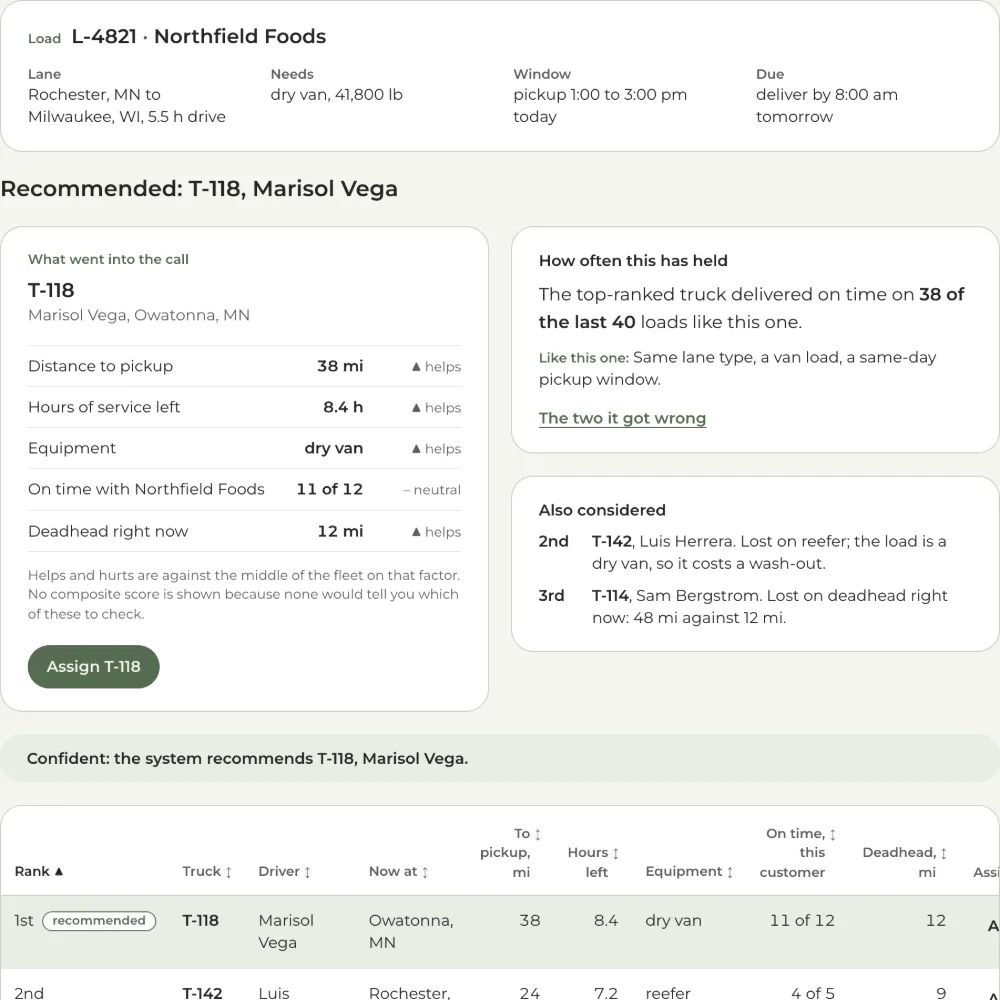
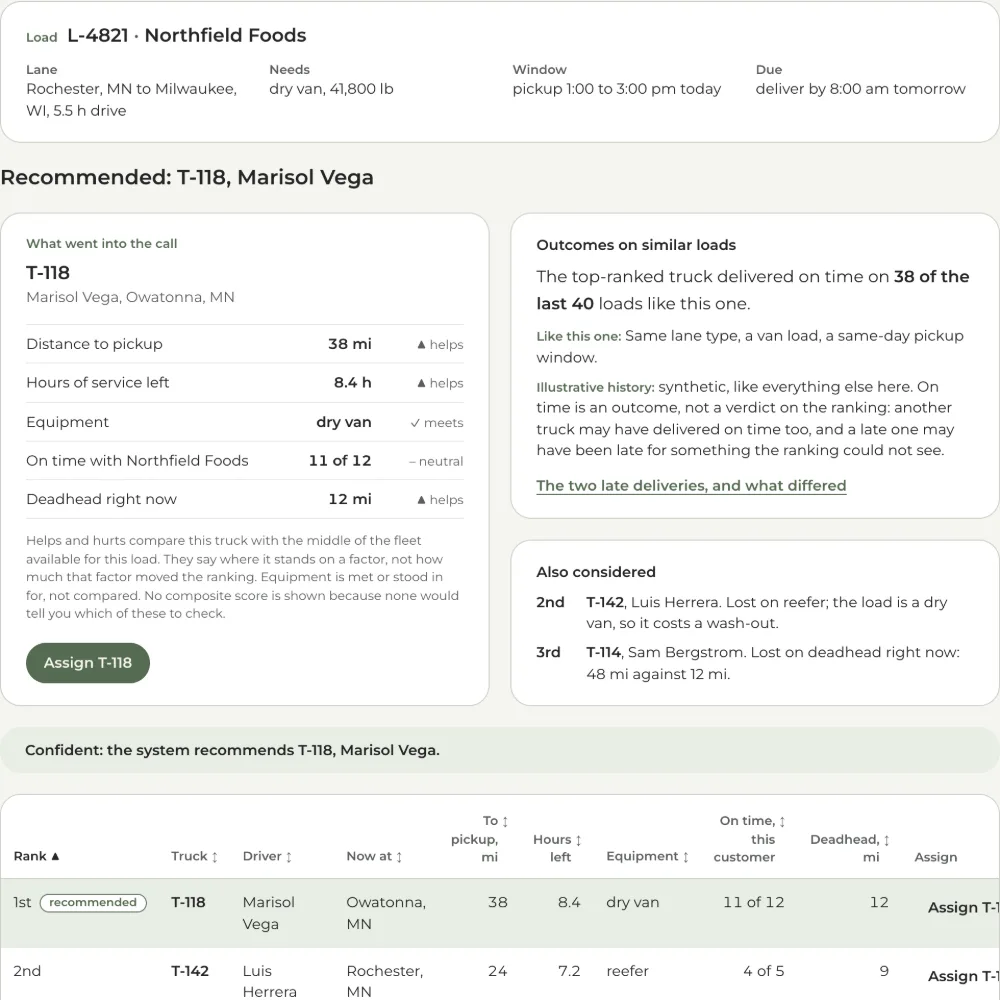
The dispatch cockpit and its card sit in the site's device chrome (#66)
The prototype was a bare column on the section ground while every capture
on the build write-ups sits in a bezel, which is two ideas of what a screen
is. It is now the same object: one --bezel of --device-chrome, the inner
radius derived from the outer, --shadow-device under it. The radius is the
laptop lid's 14 and not the phone's 26, because 26 on a box this wide reads
as a lozenge -- the argument style.css already makes at .build-laptop.

The frame is the one thing on the page that leaves the 1280px container. A
dispatch cockpit is a monitor-width interface and the argument it makes,
seven trucks and five factors all in reach, is the argument the width
carries; the screen runs to 1920 and scales down from there, with
--space-4xl of clear ground each side above 768 and the page gutter below
it, where 48 a side would squeeze the fleet data table harder than the
prose around it.

Two markup bugs went with it. The section opened a bare .container where
every other section on the page opens .container.case-narrow, and a stray
</div> closed that container early, so the cockpit escaped it entirely. At
1600px the section's h2 sat at x=192 against x=384 for every other heading
on the page. Both now measure 384.

The homepage's prototype thumbnail takes the same chrome, so the cockpit is
framed the same way in both places a reader meets it. It is also the one
thumbnail in the grid that is a SCREEN -- the four above it are
[…]

diff --git a/prototype/dispatch-cockpit.html b/prototype/dispatch-cockpit.html
@@ -18,7 +18,7 @@
   <meta property="og:url" content="https://adamhickey.com/prototype/dispatch-cockpit.html" />
   <meta property="og:title" content="A dispatch cockpit that shows its work | Adam Hickey" />
   <meta property="og:description" content="A self-directed prototype of an AI truck recommendation for freight dispatch, on synthetic data: the factors weighed and where each one stands, outcomes from similar loads instead of a confidence percentage, a one-click override that asks why afterwards, and the whole fleet always in reach." />
-  <meta property="og:image" content="https://adamhickey.com/img/og/dispatch-cockpit.jpg" />
+  <meta property="og:image" content="https://adamhickey.com/img/og/dispatch-cockpit.jpg?v=2" />
   <meta property="og:image:width" content="1200" />
   <meta property="og:image:height" content="630" />
   <meta name="twitter:card" content="summary_large_image" />
@@ -38,7 +38,7 @@
           "description": "A self-directed prototype of an AI truck recommendation for freight dispatch, on synthetic data: the factors weighed and where each one stands, outcomes from similar loads instead of a confidence percentage, a one-click override that asks why afterwards, and the whole fleet always in reach.",
           "url": "https://adamhickey.com/prototype/dispatch-cockpit.html",
           "mainEntityOfPage": "https://adamhickey.com/prototype/dispatch-cockpit.html",
-          "image": "https://adamhickey.com/img/og/dispatch-cockpit.jpg",
+          "image": "https://adamhickey.com/img/og/dispatch-cockpit.jpg?v=2",
           "datePublished": "2026-09-10",
           "dateModified": "2026-09-10",
           "author": {
@@ -104,9 +104,9 @@
   <link rel="stylesheet" href="../color.css?v=6" />
   <link rel="stylesheet" href="../shell.css?v=3" />
   <link rel="stylesheet" href="../type.css?v=3" />
-  <link rel="stylesheet" href="../style.css?v=20260910b" />
+  <link rel="stylesheet" href="../style.css?v=20260910c" />
   <link rel="stylesheet" href="../site-nav.css?v=20260908a" />
-  <link rel="stylesheet" href="dispatch-cockpit.css?v=2" />
+  <link rel="stylesheet" href="dispatch-cockpit.css?v=3" />
   <script src="../site-nav.js?v=20260906a" defer></script>
   <!-- The cockpit. Deferred, no dependencies, no build step; the synthetic
        fleet is the object at the top of the file. -->
@@ -254,14 +254,32 @@
     </header>
 
     <section class="case-section build-chapter ground-warm" id="the-cockpit">
-      <div class="container">
+      <div class="container case-narrow">
         <div class="writing-measure">
           <h2>The cockpit</h2>
           <p>One load, seven trucks, four situations. Pick a situation, then assign a truck: the recommended one, or any other that can legally take the load. Everything works from the keyboard. Arrow keys move between situations, Tab reaches every control, and what changes is announced.</p>
           <p>The four situations are scripted, to put a clear recommendation, a near-tie, an override in flight and a hard constraint each in front of you. Inside one, the ranking is worked out from the values on the screen. The fleet, the customer, the drivers and the outcome records are invented for the demo.</p>
         </div>
-        </div>
+      </div>
 
+      <!-- The prototype in the site's device chrome, the same object the
+           build write-ups frame their captures in: one --bezel of
+           --device-chrome, the inner radius DERIVED from the outer, and
+           --shadow-device under it. The radius is the laptop lid's 14 and
+           not the phone's 26, because this is a wide screen and 26 on a box
+           this wide reads as a lozenge; style.css authors 14 on
+           .build-laptop for that reason, and the two wide screens on the
+           site take the same corner.
+
+           It is the one thing on the page that leaves the 1280px container.
+           A dispatch cockpit is a monitor-width interface and the argument
+           it makes -- seven trucks and five factors all in reach -- is the
+           argument the width carries, so the frame runs to 1920 and then
+           scales down with the viewport. What it never does is touch the
+           edge: --space-4xl of clear ground on each side above 768, the
+           page gutter below it, where 48 a side would squeeze the fleet
+           data table harder than the prose around it. -->
+      <div class="ck-frame">
         <div class="ck" id="cockpit">
           <p class="ck-visually-hidden" id="ck-tabs-label">Four situations</p>
           <div class="ck-tabs" role="tablist" aria-labelledby="ck-tabs-label"></div>

diff --git a/style.css b/style.css
@@ -426,6 +426,12 @@ p  { font-size: var(--text-base); line-height: var(--leading-body); color: var(-
 }
 @media (prefers-reduced-motion: reduce) {
   .case-thumb, .case-thumb img { transform: none !important; box-shadow: none !important; }
+  /* ...except the device frame's ground shadow, which is chrome and not
+     motion: the blanket above exists to take the tilt's lift off, and it
+     was written when no thumb had a shadow at rest. Restored with the same
+     !important because that is the only thing that beats the line above
+     it. */
+  .case-card--prototype .case-thumb { box-shadow: var(--shadow-device) !important; }
 }
 
 
@@ -526,6 +532,36 @@ p  { font-size: var(--text-base); line-height: var(--leading-body); color: var(-
 }
 .case-card--prototype .case-thumb img { object-position: top; }
 .case-card--prototype .case-desc { margin-top: var(--space-xs); }
+
+/* The one thumbnail on the page that is a SCREEN, so it gets the site's
+   device chrome rather than the bare rounded tile the four case studies
+   take. The four above are photographs, logos and artwork -- a bezel around
+   a photograph is a frame around a frame -- and this is a capture of an
+   interface, which is exactly what --bezel and --device-chrome exist for.
+   It also does the card a favor: the thumb is a pale interface on the pale
+   tea-light panel #65 set this card on, and until the chrome went round it
+   the tile had no edge to speak of against it.
+
+   Same object as .build-phone and .build-laptop and same as .ck-frame on
+   the prototype page itself, so the cockpit is framed the same way in both
+   places a reader meets it: one --bezel of --device-chrome, the inner
+   radius DERIVED from the outer, --shadow-device underneath. The radius is
+   the laptop's 14 rather than the card's --radius-xl for the reason
+   style.css gives at .build-laptop -- this is a wide screen, and a phone's
+   26 on one reads as a lozenge.
+
+   Nothing about the card's box changes. --bezel is padding on a border-box
+   element under an aspect-ratio, so the tile is the same height in the grid
+   and the tilt still tracks the same rectangle; the 8px comes off the
+   picture, not off the layout. */
+.case-card--prototype .case-thumb {
+  --shell-radius: 14px;
+  padding: var(--bezel);
+  border-radius: var(--shell-radius);
+  background: var(--device-chrome);
+  box-shadow: var(--shadow-device);
+}
+.case-card--prototype .case-thumb img { border-radius: calc(var(--shell-radius) - var(--bezel)); }
 @media (min-width: 768px) {
   .case-card--prototype {
     display: grid;

diff --git a/prototype/dispatch-cockpit.css b/prototype/dispatch-cockpit.css
@@ -122,8 +122,53 @@
   color: var(--color-accent-text);
 }
 
-/* ---------- The cockpit frame ---------- */
-.ck { margin-top: var(--space-2xl); }
+/* ---------- The cockpit frame ----------
+   The prototype is framed rather than set loose on the ground, for the
+   reason style.css gives for .build-phone and .build-laptop: a page that
+   frames its captures in a bezel and shows the live thing as a bare column
+   is showing two ideas of what a screen is. So this is the same object --
+   one --bezel of --device-chrome, --shadow-device under it, and the inner
+   radius DERIVED from the outer rather than authored a second time.
+
+   Two values are authored, both by precedent. --shell-radius is the laptop
+   lid's 14 and not the phone's 26, because 26 on a box this wide reads as a
+   lozenge, which is the argument style.css already makes at .build-laptop.
+   And 1920, because a dispatch cockpit is a monitor-width interface: the
+   fleet data table and the recommendation beside it are the whole point,
+   and the 1280px container puts them in a column.
+
+   The width is the only place this file overrules the page's layout, so it
+   says what it is doing. min() takes the smaller of the cap and the
+   viewport less its margins, which means the frame is 1920 on a monitor and
+   fluid on anything narrower, and never runs to the edge either way. The
+   frame's outer box is the cap plus its own two bezels, so the SCREEN is
+   1920 and the chrome sits outside it. Below 768 the margin drops to the
+   page gutter: 48 a side there is a wider inset than the prose gets, and it
+   squeezes a seven-row data table to buy nothing. */
+.ck-frame {
+  --shell-radius: 14px;
+  width: min(calc(1920px + var(--bezel) * 2), 100% - var(--gutter) * 2);
+  margin: var(--space-3xl) auto 0;
+  padding: var(--bezel);
+  border-radius: var(--shell-radius);
+  background: var(--device-chrome);
+  box-shadow: var(--shadow-device);
+}
+@media (min-width: 48rem) {
+  .ck-frame { width: min(calc(1920px + var(--bezel) * 2), 100% - var(--space-4xl) * 2); }
+}
+
+/* The screen. It keeps the section's warm ground, so the cockpit is lit the
+   way it was designed and nothing inside it changes contrast by being
+   framed; what the bezel adds is an edge, not a new surface to measure. */
+.ck {
+  border-radius: calc(var(--shell-radius) - var(--bezel));
+  background: var(--color-warm);
+  padding: var(--space-xl);
+}
+@media (min-width: 48rem) {
+  .ck { padding: var(--space-3xl); }
+}
 .ck-visually-hidden {
   position: absolute;
   width: 1px; height: 1px;

diff --git a/index.html b/index.html
@@ -120,7 +120,7 @@
   <link rel="stylesheet" href="color.css?v=6" />
   <link rel="stylesheet" href="shell.css?v=3" />
   <link rel="stylesheet" href="type.css?v=3" />
-  <link rel="stylesheet" href="style.css?v=20260910b" />
+  <link rel="stylesheet" href="style.css?v=20260910c" />
   <link rel="stylesheet" href="site-nav.css?v=20260908a" />
   <script src="site-nav.js?v=20260906a" defer></script>
   <!-- The header logo plays a one-shot reveal clip on load and fades out
@@ -482,7 +482,7 @@
                morph into. -->
           <a class="case-card case-card--prototype reveal" href="prototype/dispatch-cockpit.html" aria-label="Open the prototype: A dispatch cockpit that shows its work">
             <div class="case-thumb">
-              <img decoding="async" loading="lazy" src="img/site/dispatch-cockpit.webp?v=1" alt="The cockpit&rsquo;s recommendation panel: a load, the truck it puts the load on, the factors it weighed with their values, and the confidence record beside them." width="1000" height="1000"/>
+              <img decoding="async" loading="lazy" src="img/site/dispatch-cockpit.webp?v=2" alt="The cockpit&rsquo;s recommendation panel: a load, the truck it puts the load on, the factors it weighed with their values, and the outcomes of similar loads beside them." width="1000" height="1000"/>
             </div>
             <div class="case-card-body">
               <h3>A dispatch cockpit that shows its work</h3>

diff --git a/engagement/design-system-foundation.html b/engagement/design-system-foundation.html
@@ -141,7 +141,7 @@
   <link rel="stylesheet" href="../color.css?v=6" />
   <link rel="stylesheet" href="../shell.css?v=3" />
   <link rel="stylesheet" href="../type.css?v=3" />
-  <link rel="stylesheet" href="../style.css?v=20260910b" />
+  <link rel="stylesheet" href="../style.css?v=20260910c" />
   <link rel="stylesheet" href="../site-nav.css?v=20260908a" />
   <script src="../site-nav.js?v=20260906a" defer></script>
   <!-- The header logo plays a one-shot reveal clip on load and fades out

diff --git a/engagement/embedded-senior-product-design.html b/engagement/embedded-senior-product-design.html
@@ -141,7 +141,7 @@
   <link rel="stylesheet" href="../color.css?v=6" />
   <link rel="stylesheet" href="../shell.css?v=3" />
   <link rel="stylesheet" href="../type.css?v=3" />
-  <link rel="stylesheet" href="../style.css?v=20260910b" />
+  <link rel="stylesheet" href="../style.css?v=20260910c" />
   <link rel="stylesheet" href="../site-nav.css?v=20260908a" />
   <script src="../site-nav.js?v=20260906a" defer></script>
   <!-- The header logo plays a one-shot reveal clip on load and fades out

diff --git a/engagement/product-clarity.html b/engagement/product-clarity.html
@@ -141,7 +141,7 @@
   <link rel="stylesheet" href="../color.css?v=6" />
   <link rel="stylesheet" href="../shell.css?v=3" />
   <link rel="stylesheet" href="../type.css?v=3" />
-  <link rel="stylesheet" href="../style.css?v=20260910b" />
+  <link rel="stylesheet" href="../style.css?v=20260910c" />
   <link rel="stylesheet" href="../site-nav.css?v=20260908a" />
   <script src="../site-nav.js?v=20260906a" defer></script>
   <!-- The header logo plays a one-shot reveal clip on load and fades out

diff --git a/engagement/working-product-prototype.html b/engagement/working-product-prototype.html
@@ -141,7 +141,7 @@
   <link rel="stylesheet" href="../color.css?v=6" />
   <link rel="stylesheet" href="../shell.css?v=3" />
   <link rel="stylesheet" href="../type.css?v=3" />
-  <link rel="stylesheet" href="../style.css?v=20260910b" />
+  <link rel="stylesheet" href="../style.css?v=20260910c" />
   <link rel="stylesheet" href="../site-nav.css?v=20260908a" />
   <script src="../site-nav.js?v=20260906a" defer></script>
   <!-- The header logo plays a one-shot reveal clip on load and fades out

diff --git a/writing/how-i-move-a-complex-workflow-from-ambiguity-to-release.html b/writing/how-i-move-a-complex-workflow-from-ambiguity-to-release.html
@@ -108,7 +108,7 @@
   <link rel="stylesheet" href="../color.css?v=6" />
   <link rel="stylesheet" href="../shell.css?v=3" />
   <link rel="stylesheet" href="../type.css?v=3" />
-  <link rel="stylesheet" href="../style.css?v=20260910b" />
+  <link rel="stylesheet" href="../style.css?v=20260910c" />
   <link rel="stylesheet" href="../site-nav.css?v=20260908a" />
   <script src="../site-nav.js?v=20260906a" defer></script>
   <!-- The header logo plays a one-shot reveal clip on load and fades out

diff --git a/writing/index.html b/writing/index.html
@@ -106,7 +106,7 @@
   <link rel="stylesheet" href="../color.css?v=6" />
   <link rel="stylesheet" href="../shell.css?v=3" />
   <link rel="stylesheet" href="../type.css?v=3" />
-  <link rel="stylesheet" href="../style.css?v=20260910b" />
+  <link rel="stylesheet" href="../style.css?v=20260910c" />
   <link rel="stylesheet" href="../site-nav.css?v=20260908a" />
   <script src="../site-nav.js?v=20260906a" defer></script>
   <!-- The header logo plays a one-shot reveal clip on load and fades out

diff --git a/writing/is-your-design-system-ready-for-ai-agents.html b/writing/is-your-design-system-ready-for-ai-agents.html
@@ -112,7 +112,7 @@
   <link rel="stylesheet" href="../color.css?v=6" />
   <link rel="stylesheet" href="../shell.css?v=3" />
   <link rel="stylesheet" href="../type.css?v=3" />
-  <link rel="stylesheet" href="../style.css?v=20260910b" />
+  <link rel="stylesheet" href="../style.css?v=20260910c" />
   <link rel="stylesheet" href="../site-nav.css?v=20260908a" />
   <script src="../site-nav.js?v=20260906a" defer></script>
   <!-- The header logo plays a one-shot reveal clip on load and fades out

diff --git a/writing/standardizing-ux-across-40-sap-fiori-apps.html b/writing/standardizing-ux-across-40-sap-fiori-apps.html
@@ -112,7 +112,7 @@
   <link rel="stylesheet" href="../color.css?v=6" />
   <link rel="stylesheet" href="../shell.css?v=3" />
   <link rel="stylesheet" href="../type.css?v=3" />
-  <link rel="stylesheet" href="../style.css?v=20260910b" />
+  <link rel="stylesheet" href="../style.css?v=20260910c" />
   <link rel="stylesheet" href="../site-nav.css?v=20260908a" />
   <script src="../site-nav.js?v=20260906a" defer></script>
   <!-- The header logo plays a one-shot reveal clip on load and fades out
